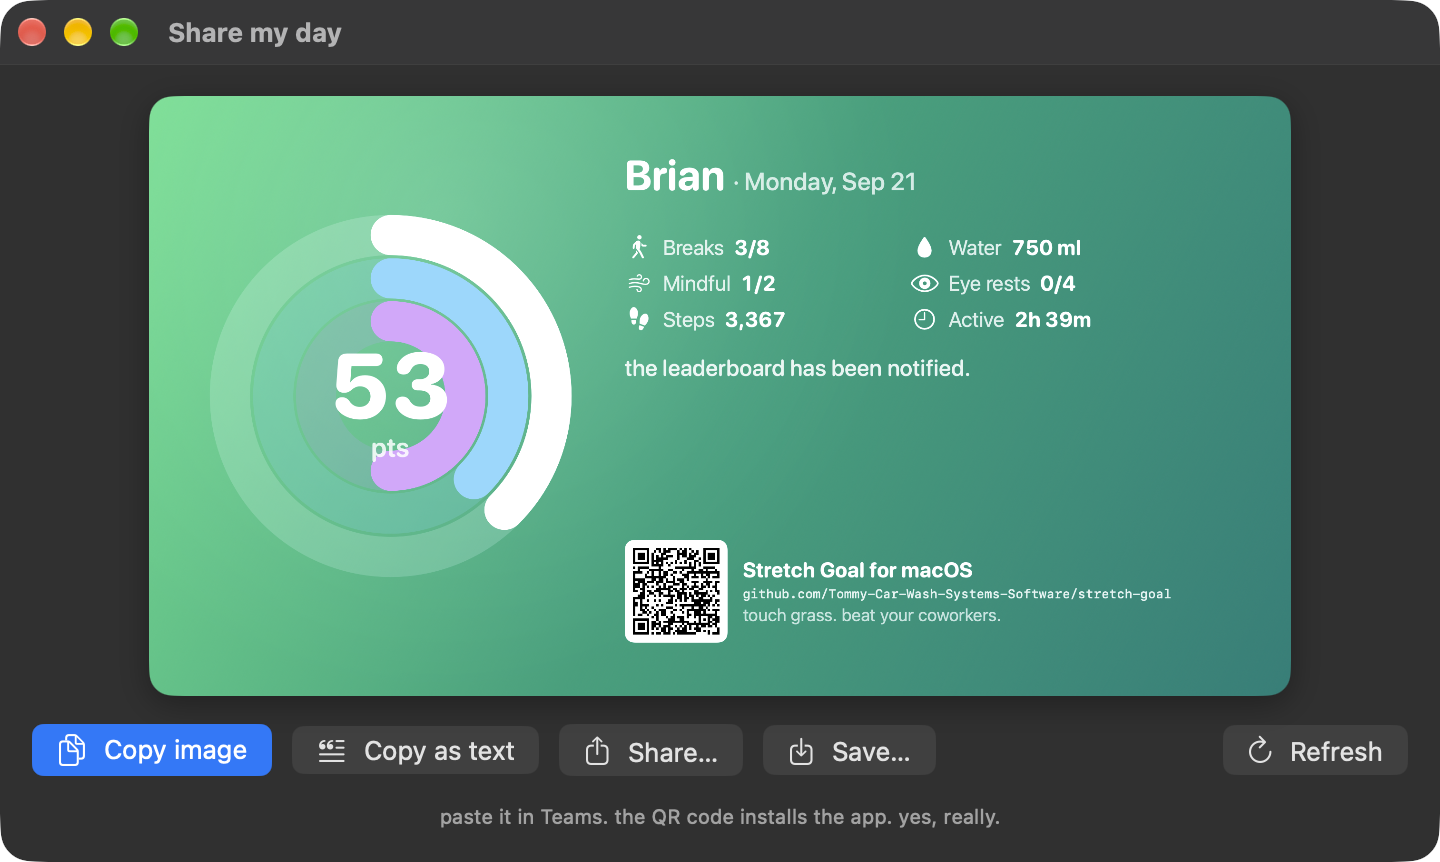
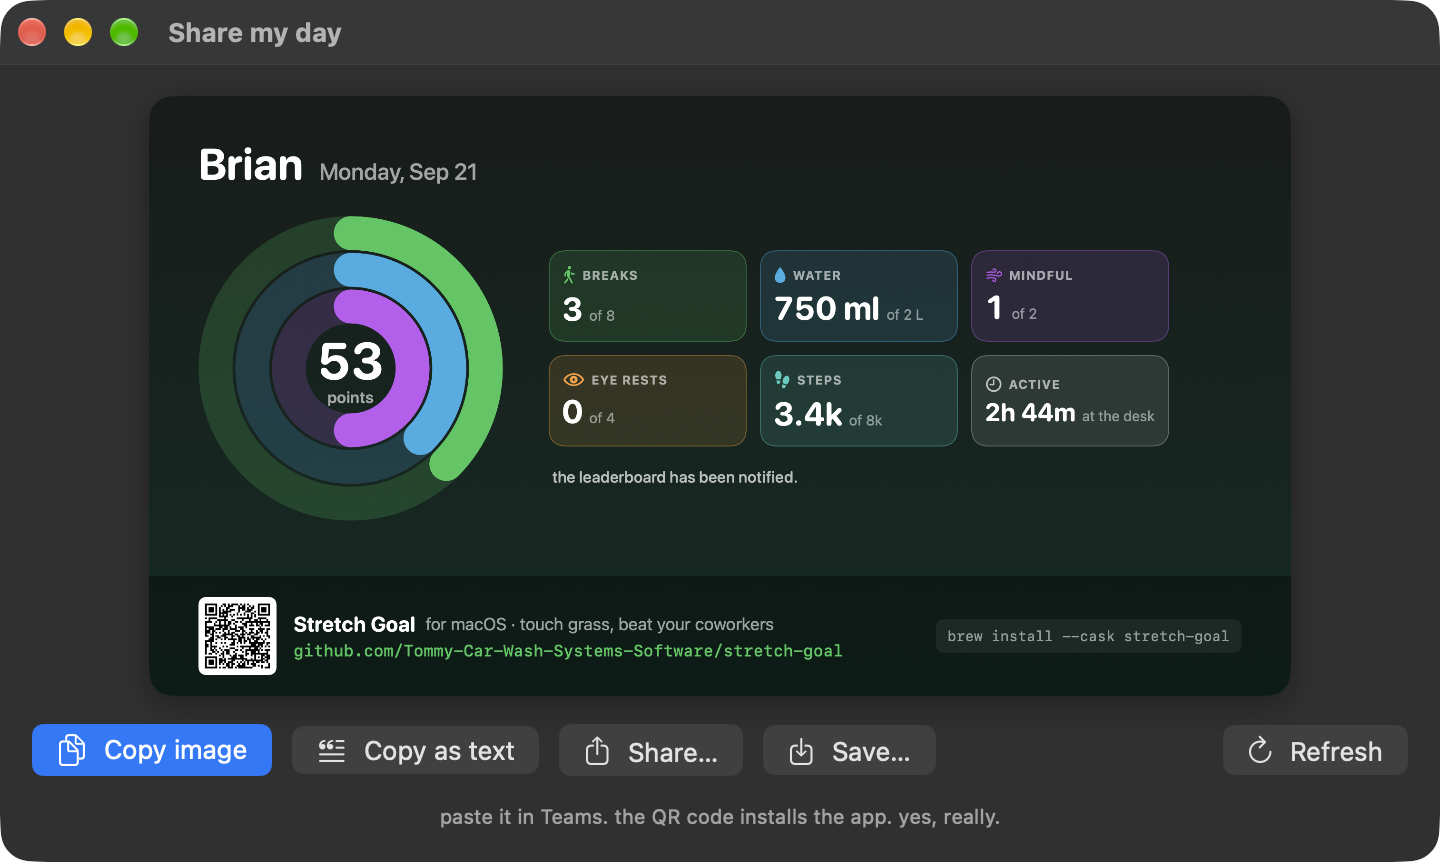
Share card redesign: dark layout, stat tiles, footer strip, smaller points; share button moves to popover header; 0.6.1

diff --git a/StretchGoal/Share/ShareCard.swift b/StretchGoal/Share/ShareCard.swift
@@ -13,106 +13,149 @@ struct ShareCardView: View {
     let caption: String
     let qr: NSImage?
 
+    private let green = Color(red: 0.20, green: 0.78, blue: 0.35)
+    private let blue = Color(red: 0.20, green: 0.68, blue: 0.90)
+    private let purple = Color(red: 0.75, green: 0.35, blue: 0.95)
+    private let orange = Color(red: 1.0, green: 0.62, blue: 0.20)
+    private let teal = Color(red: 0.25, green: 0.80, blue: 0.75)
+
     var body: some View {
-        ZStack {
-            LinearGradient(colors: [Color(red: 0.30, green: 0.88, blue: 0.54), Color(red: 0.08, green: 0.63, blue: 0.48), Color(red: 0.04, green: 0.50, blue: 0.47)],
-                           startPoint: .topLeading, endPoint: .bottomTrailing)
-            RadialGradient(colors: [.white.opacity(0.18), .clear], center: .init(x: 0.25, y: 0.2), startRadius: 0, endRadius: 500)
-
-            HStack(spacing: 56) {
-                ZStack {
-                    RingsView(
-                        progress: [
-                            Double(day.breaks) / Double(rules.breaks.goal),
-                            Double(day.waterMl) / Double(rules.water.goalMl),
-                            Double(day.mindful) / Double(rules.mindful.goal),
-                        ],
-                        colors: [.white, Color(red: 0.55, green: 0.85, blue: 1.0), Color(red: 0.85, green: 0.65, blue: 1.0)]
-                    )
-                    .frame(width: 380, height: 380)
-                    VStack(spacing: -6) {
-                        Text("\(score.total)")
-                            .font(.system(size: 96, weight: .heavy, design: .rounded))
-                            .monospacedDigit()
-                        Text("pts").font(.system(size: 28, weight: .semibold, design: .rounded)).opacity(0.85)
-                    }
-                }
-                .padding(.leading, 64)
-
-                VStack(alignment: .leading, spacing: 18) {
-                    HStack(alignment: .firstTextBaseline) {
-                        Text(nickname).font(.system(size: 44, weight: .bold, design: .rounded))
-                        Text("· \(day.date.date().formatted(.dateTime.weekday(.wide).month(.abbreviated).day()))")
-                            .font(.system(size: 26, weight: .medium)).opacity(0.8)
-                    }
-                    HStack(spacing: 14) {
-                        if score.allGoalsMet {
-                            badge("PERFECT DAY", symbol: "checkmark.seal.fill")
-                        }
-                        if streak > 0 {
-                            badge("\(streak) day streak", symbol: "flame.fill")
-                        }
-                    }
-                    Grid(alignment: .leading, horizontalSpacing: 40, verticalSpacing: 10) {
-                        GridRow {
-                            stat("figure.walk", "Breaks", "\(day.breaks)/\(rules.breaks.goal)")
-                            stat("drop.fill", "Water", "\(day.waterMl.formatted()) ml")
-                        }
-                        GridRow {
-                            stat("wind", "Mindful", "\(day.mindful)/\(rules.mindful.goal)")
-                            stat("eye", "Eye rests", "\(day.eyeRests)/\(rules.eyeRests.goal)")
-                        }
-                        GridRow {
-                            stat("shoeprints.fill", "Steps", day.steps.formatted())
-                            stat("clock", "Active", MenuBarView.duration(day.activeSeconds))
-                        }
-                    }
-                    Text(caption)
-                        .font(.system(size: 24, weight: .medium, design: .rounded).italic())
-                        .opacity(0.9)
-                        .padding(.top, 4)
+        VStack(spacing: 0) {
+            VStack(alignment: .leading, spacing: 0) {
+                header
+                    .padding(.bottom, 28)
+                HStack(alignment: .center, spacing: 48) {
+                    rings
+                    tiles
                     Spacer(minLength: 0)
-                    HStack(spacing: 16) {
-                        if let qr {
-                            Image(nsImage: qr)
-                                .interpolation(.none)
-                                .resizable()
-                                .frame(width: 96, height: 96)
-                                .padding(6)
-                                .background(.white, in: .rect(cornerRadius: 10))
-                        }
-                        VStack(alignment: .leading, spacing: 4) {
-                            Text("Stretch Goal for macOS").font(.system(size: 22, weight: .bold, design: .rounded))
-                            Text(Quips.repoURL.replacingOccurrences(of: "https://", with: ""))
-                                .font(.system(size: 15, weight: .medium, design: .monospaced)).opacity(0.9)
-                                .lineLimit(1).minimumScaleFactor(0.7)
-                            Text("touch grass. beat your coworkers.").font(.system(size: 18)).opacity(0.75)
-                        }
-                    }
                 }
-                .padding(.vertical, 56)
-                .padding(.trailing, 64)
+            }
+            .padding(.horizontal, 52)
+            .padding(.top, 44)
+            Spacer(minLength: 0)
+            footer
+        }
+        .frame(width: 1200, height: 630)
+        .background(
+            LinearGradient(colors: [Color(red: 0.09, green: 0.11, blue: 0.10), Color(red: 0.05, green: 0.17, blue: 0.14)],
+                           startPoint: .top, endPoint: .bottom)
+        )
+        .foregroundStyle(.white)
+    }
+
+    private var header: some View {
+        HStack(alignment: .firstTextBaseline, spacing: 16) {
+            Text(nickname).font(.system(size: 46, weight: .bold, design: .rounded))
+            Text(day.date.date().formatted(.dateTime.weekday(.wide).month(.abbreviated).day()))
+                .font(.system(size: 24, weight: .medium)).foregroundStyle(.white.opacity(0.6))
+            Spacer()
+            if score.allGoalsMet { badge("PERFECT DAY", symbol: "checkmark.seal.fill", tint: green) }
+            if streak > 0 { badge("\(streak) day streak", symbol: "flame.fill", tint: orange) }
+        }
+    }
+
+    private var rings: some View {
+        ZStack {
+            RingsView(
+                progress: [
+                    Double(day.breaks) / Double(rules.breaks.goal),
+                    Double(day.waterMl) / Double(rules.water.goalMl),
+                    Double(day.mindful) / Double(rules.mindful.goal),
+                ],
+                colors: [green, blue, purple]
+            )
+            .frame(width: 320, height: 320)
+            VStack(spacing: -2) {
+                Text("\(score.total)")
+                    .font(.system(size: 54, weight: .bold, design: .rounded))
+                    .monospacedDigit()
+                    .minimumScaleFactor(0.6)
+                    .lineLimit(1)
+                Text("points").font(.system(size: 17, weight: .semibold, design: .rounded)).foregroundStyle(.white.opacity(0.6))
+            }
+            .frame(width: 130)
+        }
+    }
+
+    private var tiles: some View {
+        VStack(alignment: .leading, spacing: 14) {
+            HStack(spacing: 14) {
+                tile("figure.walk", "Breaks", "\(day.breaks)", "of \(rules.breaks.goal)", green, met: rules.breaks.goalMet(day.breaks))
+                tile("drop.fill", "Water", day.waterMl >= 1000 ? String(format: "%.1f L", Double(day.waterMl) / 1000) : "\(day.waterMl) ml", "of 2 L", blue, met: rules.water.goalMet(day.waterMl))
+                tile("wind", "Mindful", "\(day.mindful)", "of \(rules.mindful.goal)", purple, met: rules.mindful.goalMet(day.mindful))
+            }
+            HStack(spacing: 14) {
+                tile("eye", "Eye rests", "\(day.eyeRests)", "of \(rules.eyeRests.goal)", orange, met: rules.eyeRests.goalMet(day.eyeRests))
+                tile("shoeprints.fill", "Steps", day.steps >= 1000 ? String(format: "%.1fk", Double(day.steps) / 1000) : "\(day.steps)", "of 8k", teal, met: rules.steps.goalMet(day.steps))
+                tile("clock", "Active", MenuBarView.duration(day.activeSeconds), "at the desk", .white.opacity(0.7), met: false)
+            }
+            Text(caption)
+                .font(.system(size: 21, weight: .medium, design: .rounded).italic())
+                .foregroundStyle(.white.opacity(0.7))
+                .lineLimit(1)
+                .minimumScaleFactor(0.8)
+                .padding(.top, 8)
+                .padding(.leading, 4)
+        }
+    }
+
+    private func tile(_ symbol: String, _ title: String, _ value: String, _ sub: String, _ tint: Color, met: Bool) -> some View {
+        VStack(alignment: .leading, spacing: 4) {
+            HStack(spacing: 6) {
+                Image(systemName: symbol).font(.system(size: 16, weight: .semibold)).foregroundStyle(tint)
+                Text(title.uppercased()).font(.system(size: 13, weight: .bold)).foregroundStyle(.white.opacity(0.6)).tracking(1)
                 Spacer(minLength: 0)
+                if met { Image(systemName: "checkmark.circle.fill").font(.system(size: 14)).foregroundStyle(tint) }
+            }
+            HStack(alignment: .firstTextBaseline, spacing: 6) {
+                Text(value).font(.system(size: 34, weight: .bold, design: .rounded)).monospacedDigit().lineLimit(1).minimumScaleFactor(0.7)
+                Text(sub).font(.system(size: 15)).foregroundStyle(.white.opacity(0.5))
             }
         }
-        .foregroundStyle(.white)
-        .frame(width: 1200, height: 630)
+        .padding(14)
+        .frame(width: 208, height: 96, alignment: .leading)
+        .background(tint.opacity(0.14), in: .rect(cornerRadius: 16))
+        .overlay(RoundedRectangle(cornerRadius: 16).strokeBorder(tint.opacity(0.35), lineWidth: 1))
     }
 
-    private func badge(_ text: String, symbol: String) -> some View {
-        Label(text, systemImage: symbol)
-            .font(.system(size: 20, weight: .bold, design: .rounded))
-            .padding(.horizontal, 14).padding(.vertical, 7)
-            .background(.white.opacity(0.2), in: .capsule)
-    }
-
-    private func stat(_ symbol: String, _ title: String, _ value: String) -> some View {
-        HStack(spacing: 10) {
-            Image(systemName: symbol).font(.system(size: 22)).frame(width: 30)
-            Text(title).font(.system(size: 22)).opacity(0.85)
-            Text(value).font(.system(size: 22, weight: .bold, design: .rounded)).monospacedDigit()
+    private var footer: some View {
+        HStack(spacing: 18) {
+            if let qr {
+                Image(nsImage: qr)
+                    .interpolation(.none)
+                    .resizable()
+                    .frame(width: 72, height: 72)
+                    .padding(5)
+                    .background(.white, in: .rect(cornerRadius: 8))
+            }
+            VStack(alignment: .leading, spacing: 5) {
+                HStack(spacing: 10) {
+                    Text("Stretch Goal").font(.system(size: 22, weight: .bold, design: .rounded))
+                    Text("for macOS · touch grass, beat your coworkers").font(.system(size: 18)).foregroundStyle(.white.opacity(0.6))
+                }
+                Text(Quips.repoURL.replacingOccurrences(of: "https://", with: ""))
+                    .font(.system(size: 17, weight: .medium, design: .monospaced)).foregroundStyle(green)
+                    .lineLimit(1).minimumScaleFactor(0.8)
+            }
+            Spacer()
+            Text("brew install --cask stretch-goal")
+                .font(.system(size: 15, design: .monospaced))
+                .foregroundStyle(.white.opacity(0.55))
+                .padding(.horizontal, 12).padding(.vertical, 8)
+                .background(.white.opacity(0.06), in: .rect(cornerRadius: 8))
         }
-        .frame(minWidth: 260, alignment: .leading)
+        .padding(.horizontal, 52)
+        .padding(.vertical, 22)
+        .frame(maxWidth: .infinity)
+        .background(.black.opacity(0.35))
+    }
+
+    private func badge(_ text: String, symbol: String, tint: Color) -> some View {
+        Label(text, systemImage: symbol)
+            .font(.system(size: 18, weight: .bold, design: .rounded))
+            .foregroundStyle(tint)
+            .padding(.horizontal, 14).padding(.vertical, 8)
+            .background(tint.opacity(0.16), in: .capsule)
     }
 }
 

diff --git a/StretchGoal/MenuBar/MenuBarView.swift b/StretchGoal/MenuBar/MenuBarView.swift
@@ -41,11 +41,16 @@ struct MenuBarView: View {
         TimelineView(.periodic(from: .now, by: 1)) { context in
             let status = model.statusLine(at: context.date)
             VStack(alignment: .leading, spacing: 3) {
-                HStack(alignment: .firstTextBaseline) {
+                HStack(alignment: .firstTextBaseline, spacing: 8) {
                     Text(status.headline).font(.headline).contentTransition(.numericText())
                     Spacer()
                     Text("\(model.score.total) pts").font(.headline.monospacedDigit())
                         .help(pointsBreakdown)
+                    Button { openWindow(id: WindowID.share); NSApp.activate() } label: {
+                        Image(systemName: "square.and.arrow.up").font(.callout)
+                    }
+                    .buttonStyle(.borderless)
+                    .help("Share today's rings and points")
                 }
                 Text(status.quip).font(.caption).foregroundStyle(.secondary).lineLimit(1)
                 HStack {
@@ -205,8 +210,6 @@ struct MenuBarView: View {
         HStack {
             Button("History") { openWindow(id: WindowID.history); NSApp.activate() }
             Button("Leaderboard") { openWindow(id: WindowID.leaderboard); NSApp.activate() }
-            Button { openWindow(id: WindowID.share); NSApp.activate() } label: { Label("Share", systemImage: "square.and.arrow.up") }
-                .help("Share today's rings and points")
             Button("Settings…") { openSettings(); NSApp.activate() }
             Spacer()
             Button("Quit") { NSApplication.shared.terminate(nil) }

diff --git a/README.md b/README.md
@@ -55,8 +55,8 @@ Click the walking figure. Everything you need is right here.
 - **Sitting timer.** How long you've been in the chair without a real break. Under it, a line
   of commentary that escalates from *"this is fine. this is still fine."* to *"the chair has
   legally adopted you."* It is not wrong.
-- **Points and streak.** Today's score, top right. Hover it for the exact arithmetic. The flame
-  is your streak of perfect weekdays.
+- **Points and streak.** Today's score, top right. Hover it for the exact arithmetic. The share
+  icon beside it makes a card of your day. The flame is your streak of perfect weekdays.
 - **Rings.** Breaks, water, mindful. Close all three and you get the bonus.
 - **Goals.** Breaks out of 8, water out of 2,000 ml, breathing sessions out of 2, eye rests out
   of 4. Plus active time and your longest sit, because you should know.
@@ -120,7 +120,7 @@ someone else does the same you'll see the screen above, and it's right: recruit 
 
 <img src="docs/screenshots/share.png" width="720" alt="The Share my day window with a rendered card">
 
-**Share** in the popover footer renders a card: your rings, points, streak, the day's numbers, a
+The share icon next to your points renders a card: your rings, points, streak, the day's numbers, a
 line of commentary, and a QR code that points at this repo so whoever sees it can install the
 app. **Copy image** puts it on the clipboard for Teams. **Copy as text** gives you a one-liner
 for chat. **Share…** opens the system share sheet, **Save…** writes a PNG. Post a perfect day.
